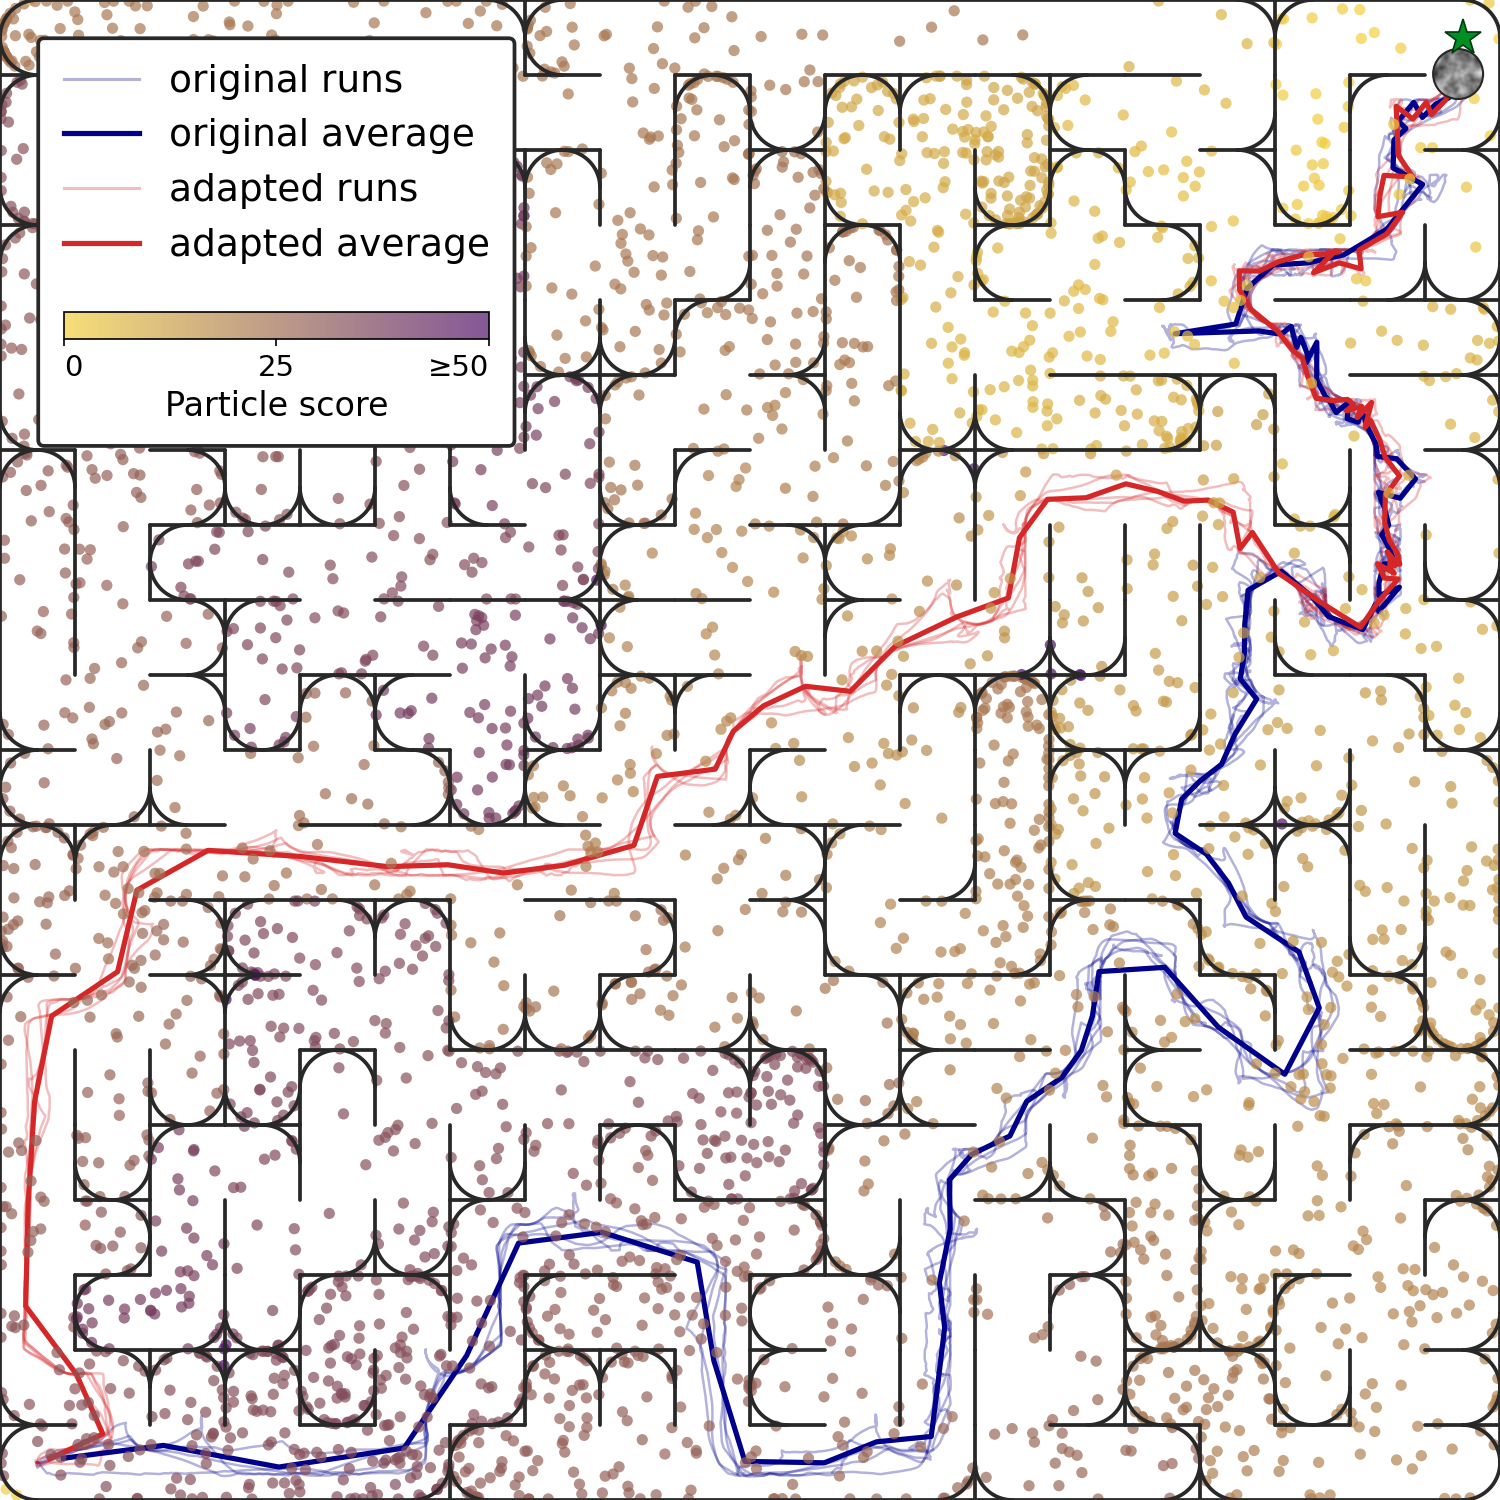
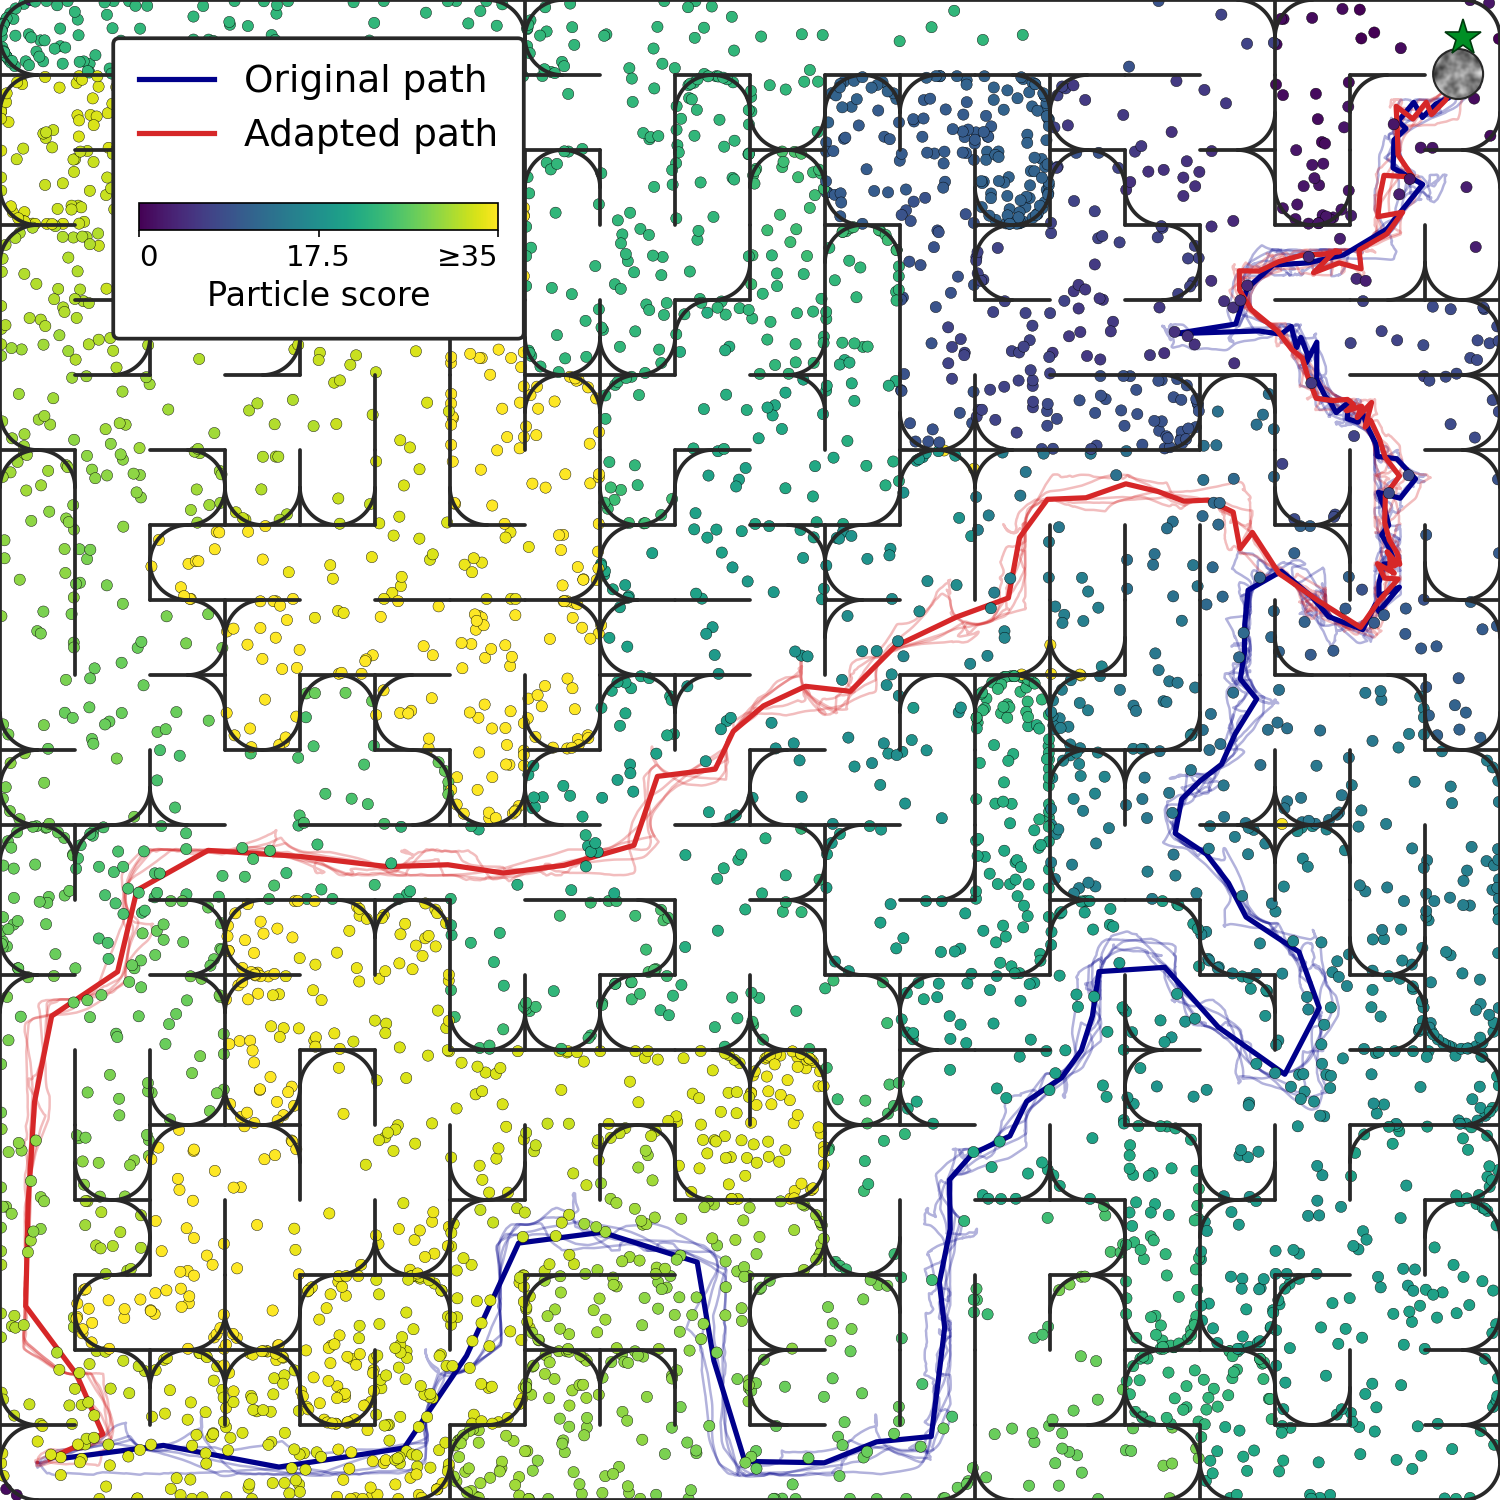
Tuned score colormap
using veridis and limit at 35

diff --git a/figures/fig1e/optimality_render.py b/figures/fig1e/optimality_render.py
@@ -18,6 +18,8 @@ import matplotlib.lines as mlines
 import matplotlib.patheffects as mpe
 from matplotlib.collections import PatchCollection
 from matplotlib.colors import LinearSegmentedColormap, Normalize
+from matplotlib import colormaps as colormaps
+
 import numpy as np
 from tslearn.barycenters import dtw_barycenter_averaging
 
@@ -74,7 +76,7 @@ PARTICLE_RADIUS_SCALE = 1.5   # display-size multiplier for particle circles (ma
 # Particle score colouring: MINCOLOR_SCORE -> yellow, MAXCOLOR_SCORE -> purple.
 # Scores outside [MIN, MAX] (incl. disconnected particles) clip to the end colours.
 MINCOLOR_SCORE  = 0
-MAXCOLOR_SCORE  = 50
+MAXCOLOR_SCORE  = 35
 SCORE_CMAP_LOW  = '#F4D03F'   # warm amber  — MINCOLOR_SCORE
 SCORE_CMAP_HIGH = "#50106B"   # deep purple — MAXCOLOR_SCORE and above
 
@@ -308,8 +310,14 @@ if __name__ == "__main__":
 
         # ── Particles (final frame of reference file) ──────────────────────────
         if COLOR_BY_SCORE:
-            score_cmap = LinearSegmentedColormap.from_list(
-                'score', [SCORE_CMAP_LOW, SCORE_CMAP_HIGH])
+            #score_cmap = LinearSegmentedColormap.from_list(
+            #    'score', [SCORE_CMAP_LOW, SCORE_CMAP_HIGH])
+            #score_norm = Normalize(vmin=MINCOLOR_SCORE, vmax=MAXCOLOR_SCORE, clip=True)
+            score_cmap =  colormaps['viridis']#['gist_rainbow']
+            #score_cmap = LinearSegmentedColormap.from_list('particle_scores',
+            #        ["#FF0000", "#00FF00","#0000FF"])
+            #LinearSegmentedColormap.from_list(
+            #                'score', [SCORE_CMAP_LOW, SCORE_CMAP_HIGH])
             score_norm = Normalize(vmin=MINCOLOR_SCORE, vmax=MAXCOLOR_SCORE, clip=True)
             colors = [score_cmap(score_norm(s))[:3] for s in last_scores]
         else:
@@ -325,7 +333,7 @@ if __name__ == "__main__":
         display_radii = np.maximum(particle_radius, min_r) * PARTICLE_RADIUS_SCALE
         circles = [mpatches.Circle((x, y), radius=ri)
                    for (x, y), ri in zip(last_positions, display_radii)]
-        pc = PatchCollection(circles, facecolors=colors, alpha=0.7, linewidths=0, zorder=6)
+        pc = PatchCollection(circles, facecolors=colors, edgecolor='k', alpha=1, linewidths=0.2, zorder=6)
         ax.add_collection(pc)
 
         # For small maps (G2) label every particle in the main view
@@ -403,7 +411,7 @@ if __name__ == "__main__":
                                 lb.width - 2 * pad_x, cb_h])
             cax.set_zorder(25)
             sm = plt.cm.ScalarMappable(norm=score_norm, cmap=score_cmap)
-            cb = fig.colorbar(sm, cax=cax, orientation='horizontal', alpha=0.7)
+            cb = fig.colorbar(sm, cax=cax, orientation='horizontal', alpha=1)
             _mid = (MINCOLOR_SCORE + MAXCOLOR_SCORE) / 2
             cb.set_ticks([MINCOLOR_SCORE, _mid, MAXCOLOR_SCORE])
             cb.set_ticklabels([f'{MINCOLOR_SCORE:g}', f'{_mid:g}', f'≥{MAXCOLOR_SCORE:g}'])
